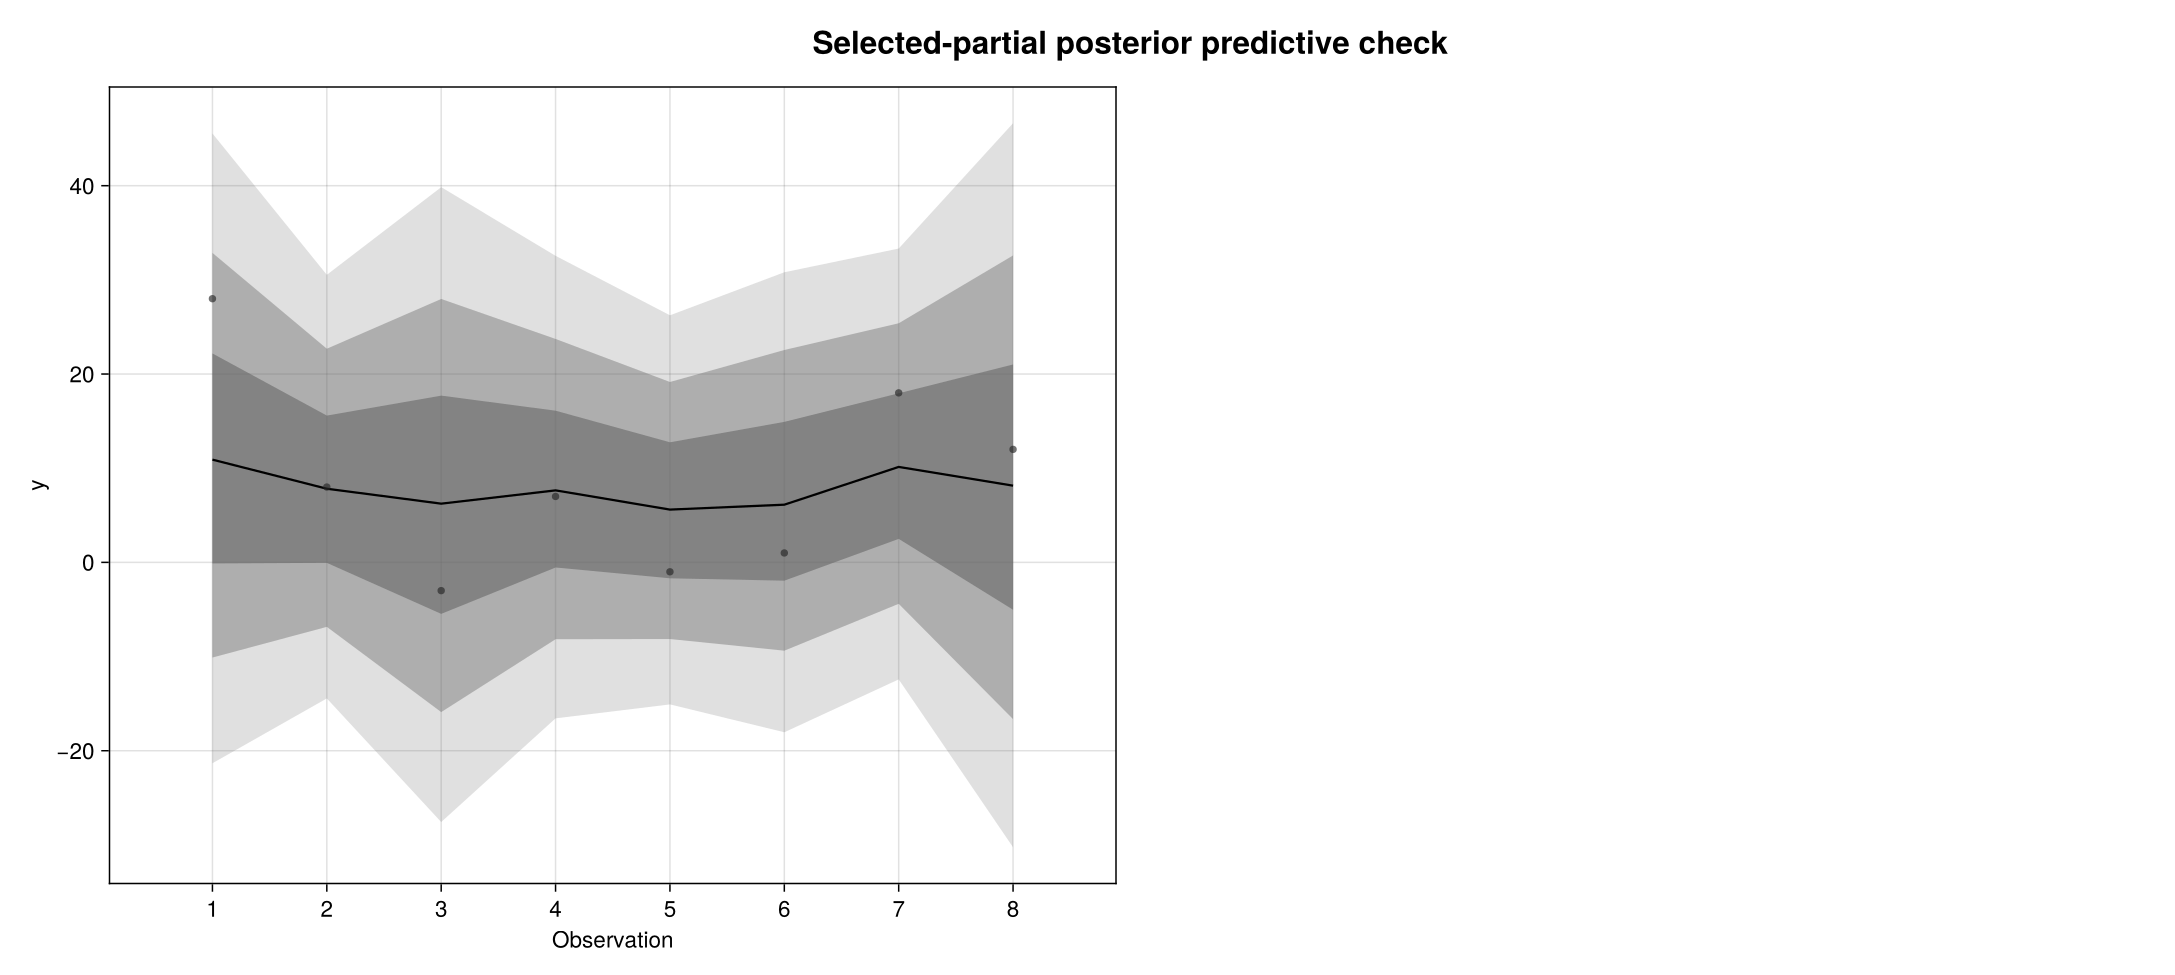
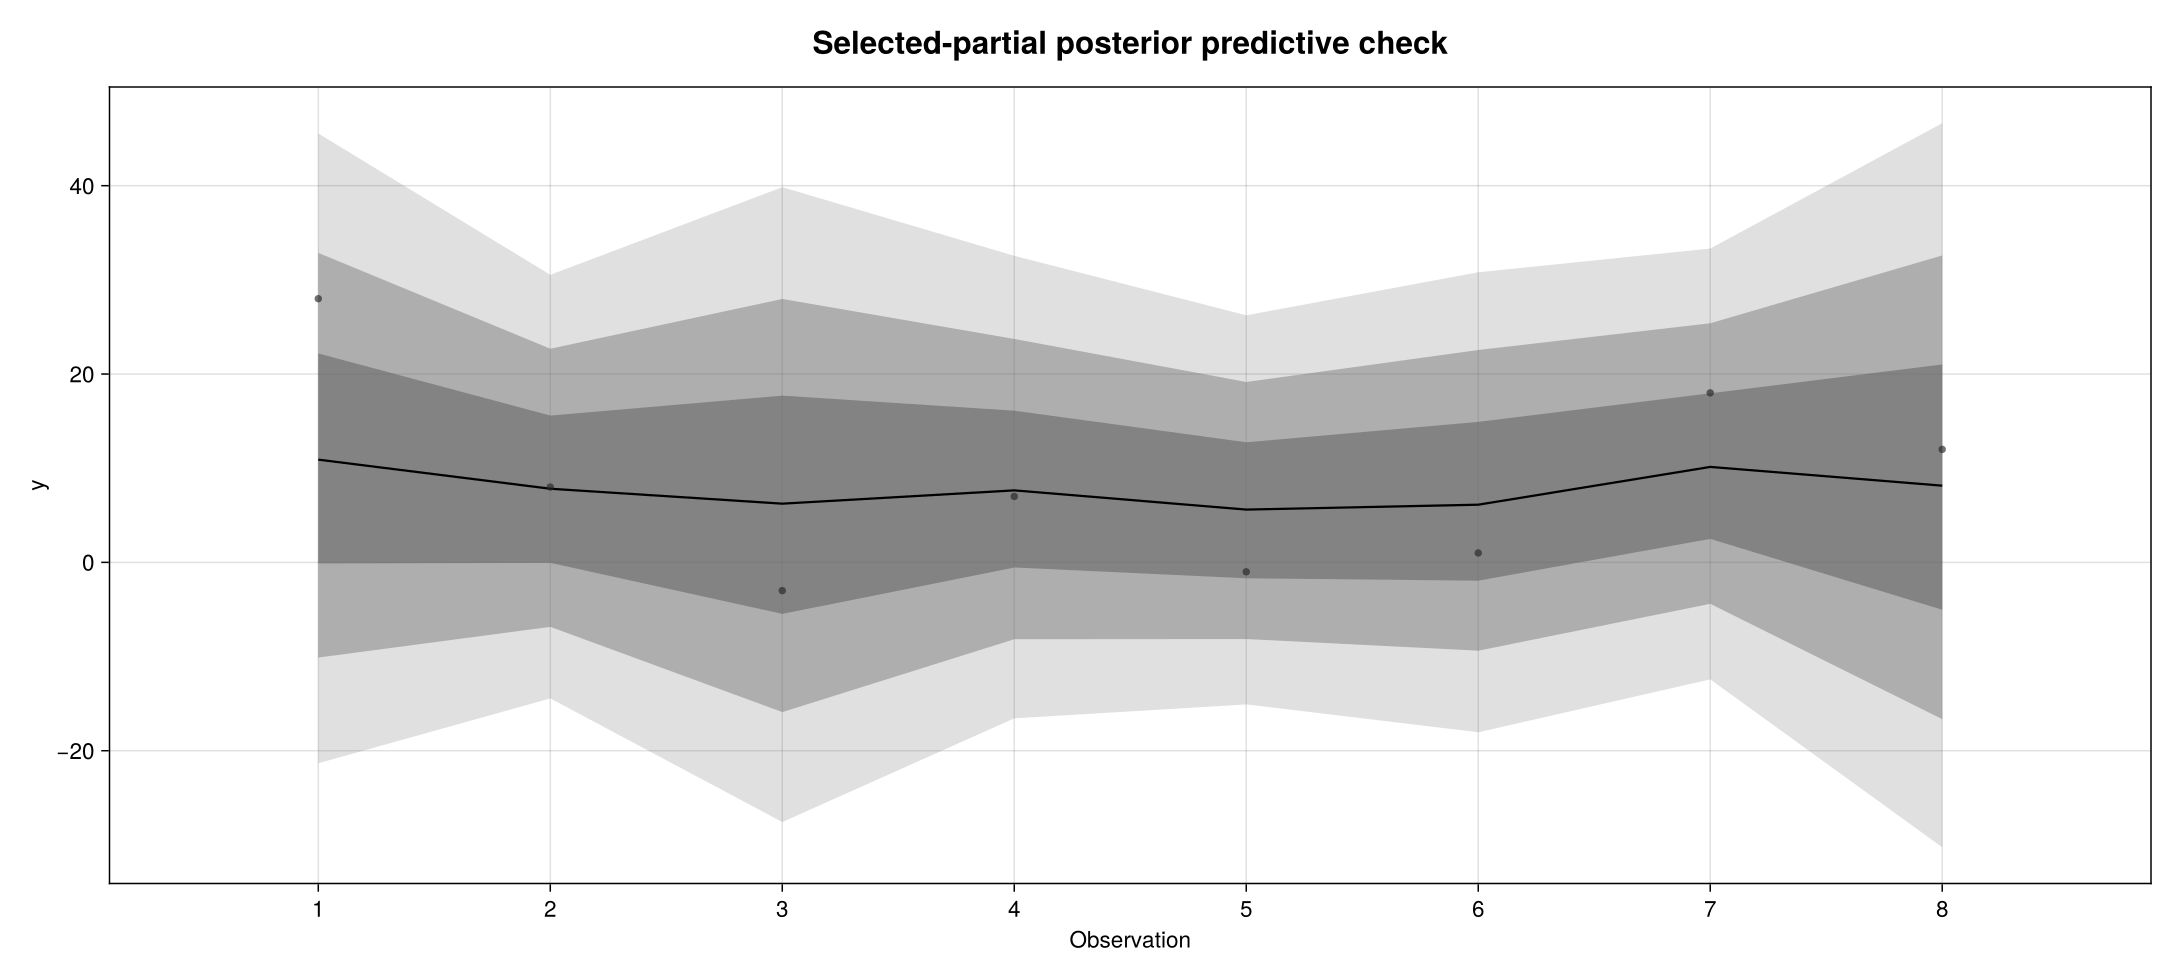
research: bind diagnostics to per-arm fits; direct fit-to-plot provenance
prepare_gradient_diagnostics evaluates each configuration on its OWN saved fit and native problem (pilot/model, refit/selected-partial, online/model+transport) instead of re-expressing the pilot; loss replay stays on the common pilot. validate gains 'Plotted rows match their named fits' (504005 tests: all 240k pair rows vs .jls binaries, 24k gradient-pair bindings). PPC/posterior panels drop empty legend slots. reproduce timed_scope wording corrected; diagnostics provenance records the fit-producer SHA. Page: refit/online panels labeled as own draws; gradient columns per-fit. Figures re-rendered from saved data only, no MCMC.

diff --git a/docs/src/eight-schools-centering.md b/docs/src/eight-schools-centering.md
@@ -214,6 +214,10 @@ refit = WarmupHMC.adaptive_warmup_mcmc(
 
 ![Post-hoc selected partial coordinates](assets/adaptive-eight-schools/post-hoc_scatter.png)
 
+These are the refit run's own 10,000 draws in the selected partial
+coordinates — not the pilot re-expressed. Each row shows one school's
+partial coordinate against the random-effect scale on a logarithmic axis.
+
 Both fits retained 10,000 draws with the configuration above:
 
 | fit | max split R-hat | min bulk ESS | min tail ESS | divergences |
@@ -256,7 +260,8 @@ workflow.
 
 ![Online-adaptive selected coordinates](assets/adaptive-eight-schools/online_scatter.png)
 
-The full online run retained 10,000 draws, with 1 divergence (0.01%),
+These are the online run's own 10,000 draws, shown in the learned
+coordinates. The full online run retained 10,000 draws, with 1 divergence (0.01%),
 maximum split R-hat `1.0006`, minimum bulk ESS `3,597`, and minimum tail
 ESS `3,131`. This is encouraging evidence from one run, not a guarantee
 for other data, seeds or models.
@@ -294,15 +299,17 @@ centeredness learned online.
 
 Here the columns genuinely change the displayed coordinates, left to
 right: NCP pilot, online fit in its learned geometry, and post-hoc partial
-refit. Each facet
-shows **1,000 evenly selected saved draws**, with transparent points; the
-underlying gradient evaluations and loss calculations use all 10,000
+refit. Each facet shows **1,000 evenly selected draws from its own fit** —
+pilot, refit, or online run — with transparent points; the underlying
+gradient evaluations and loss calculations use all 10,000
 draws per fit. The points are plotted directly, without smoothing or
 aggregation. Gradient axes are independent between facets, because
 reparameterization changes their units as well as the coordinate units.
 
-The gradients come from the actual BRM-generated Stan target. At fixed
-hyperparameters, BRM transports them with `g_c = tau^(-c)*g_z`. The
+The NCP and online gradients come from the actual BRM-generated Stan
+target; the refit gradients come from its fixed selected-partial problem.
+At fixed hyperparameters, the NCP-to-partial display transport is
+`g_c = tau^(-c)*g_z`. The
 change-of-coordinate Jacobian is constant with respect to this school
 coordinate; its hyperparameter derivatives are not being plotted here.
 Seventy-two independent finite-difference checks of the displayed

diff --git a/research/eight_schools_centering/README.md b/research/eight_schools_centering/README.md
@@ -54,6 +54,11 @@ through WarmupHMC's public reparametrization API. Online adaptation uses
 BRM's `adaptive_centering_problem` with WarmupHMC's default weighted
 position-gradient correlation objective (`w1=0`).
 
+Post-fit diagnostics bind each displayed configuration to its own saved
+fit: pair and gradient panels show the pilot, refit, and online draws in
+their own geometries, each evaluated on its native problem. Only the
+retrospective online-loss replay uses the common pilot, labeled as such.
+
 The full harness checks generated Stan with `stanc`, compares the generated
 target to the immutable source at synthetic and saved posterior positions,
 checks both returned and final-checkpoint counters, computes split R-hat,

diff --git a/research/eight_schools_centering/results/README.md b/research/eight_schools_centering/results/README.md
@@ -30,3 +30,10 @@ tables, pair/gradient display tables and checkpoints stay in scratch —
 they are tens of megabytes and are not needed to check any number on the
 page. The corresponding figures are in
 `docs/src/assets/adaptive-eight-schools/`.
+
+Publication note: the `timed_scope` string recorded in `provenance.toml`
+predates a wording fix and understates the timed region. The measured
+interval is the sampler call including initialization, first-use Julia/AD
+compilation and checkpoint I/O; only Stan compilation, post-fit
+extraction, plotting and offline selection are excluded. Later runs record
+the corrected string; this copy is kept byte-identical to the run output.
